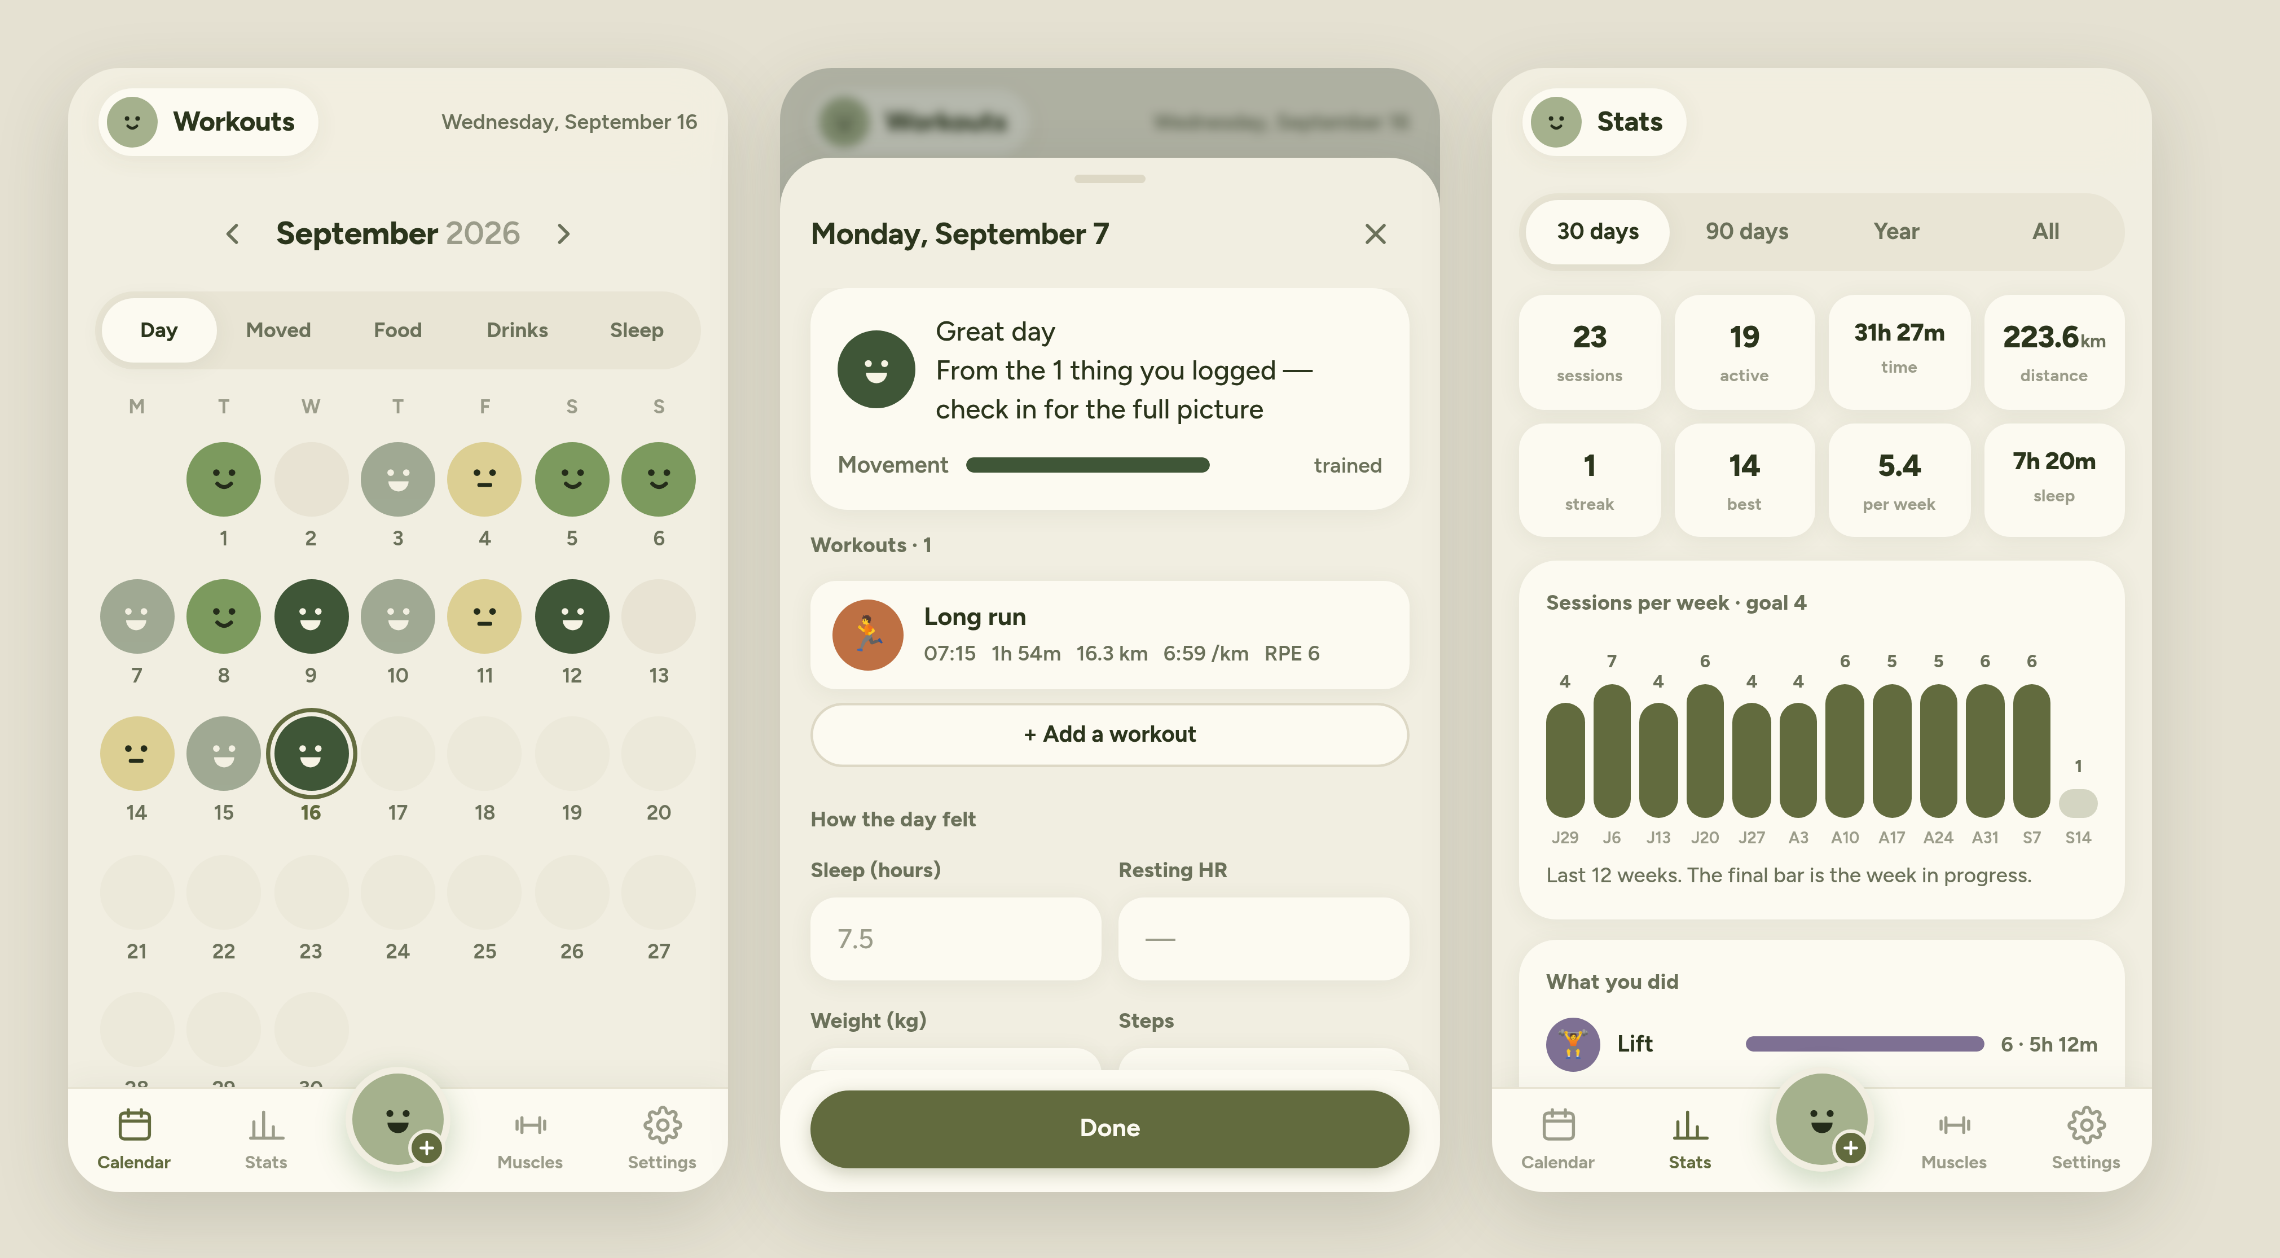
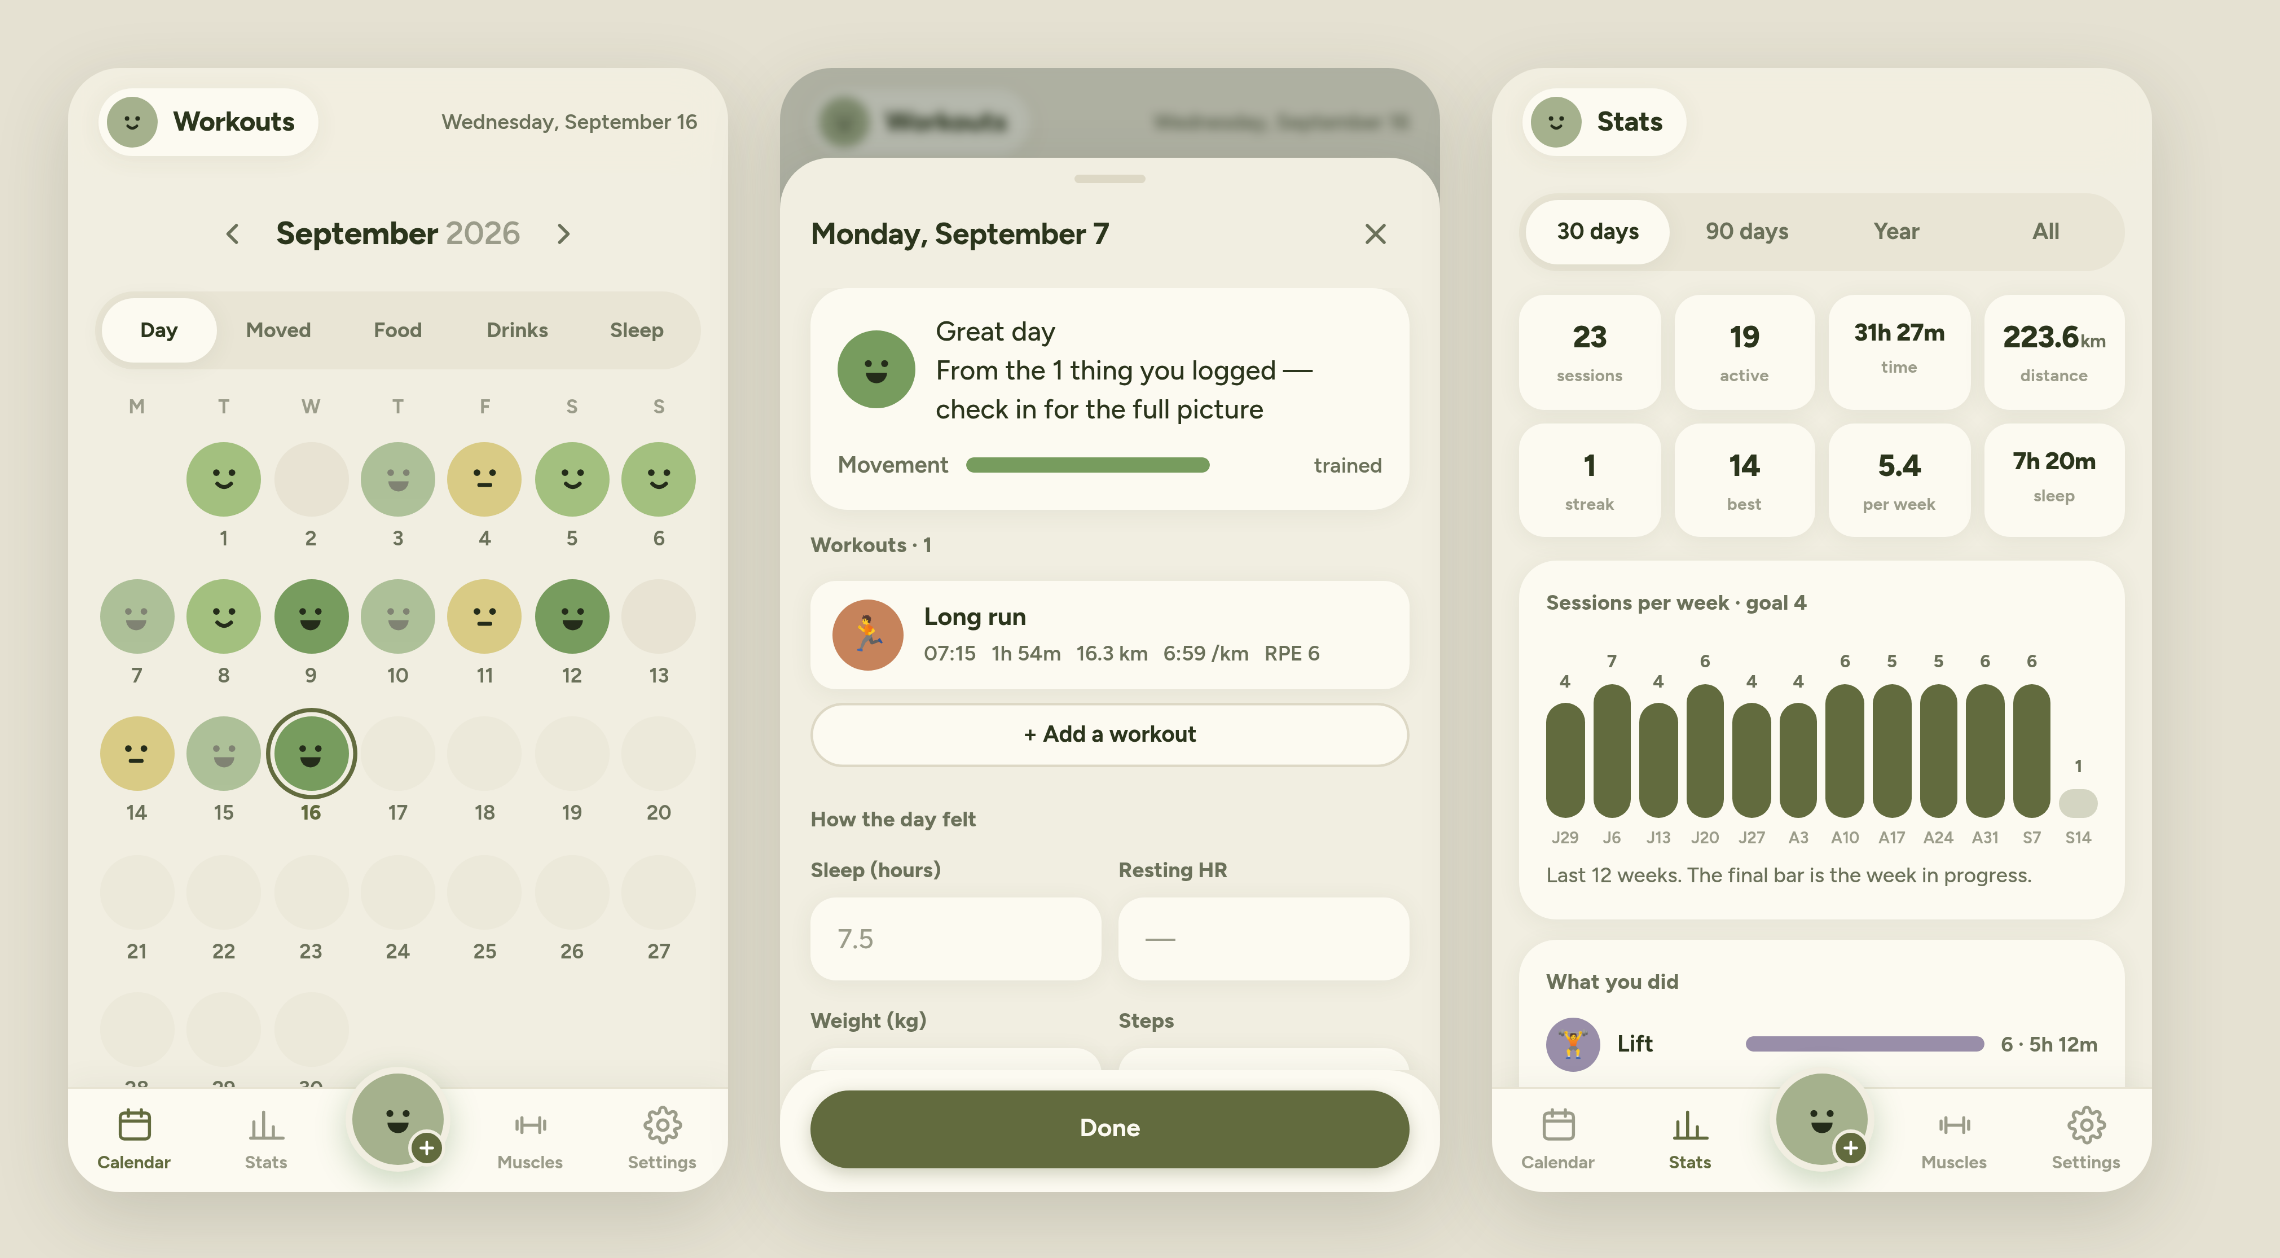
Lighten the palette so faces are always dark
The cream faces were a symptom: several fills were too dark to take dark ink,
so the contrast helper inverted them. Lifting the colours removes the cause
rather than the symptom.

Every fill in the app — score bands, activity types, muscle groups, food,
drinks and sleep — now clears 4.6:1 against the dark ink, so all 48 render a
black face. Audited rather than eyeballed.

Lifting the ramp mechanically collapsed its first two steps into
indistinguishable greens, so the five-step ramp is hand-spread instead: green,
sage, wheat, tan, terracotta, each step clearly apart while all staying light
enough. The same ramp now backs the food, drink and sleep scales too, so those
read in the same language.

Since nothing is dark any more, colours work on both grounds unaided and the
dark-theme swap introduced last commit is gone. inkFor stays as the guardrail
for anything added later.

Faded partial days get a little more presence, the palette being lighter.

Claude-Session: https://claude.ai/code/session_01YHC9zE35dyf9Km5sP7SgMx

diff --git a/js/types.js b/js/types.js
@@ -1,16 +1,16 @@
 // Workout taxonomy. `key` is what gets persisted, so don't rename existing keys
 // without a migration in store.js.
 export const TYPES = [
-  { key: 'run',      label: 'Run',       icon: '🏃', color: '#be7043', distance: true,  pace: 'pace' },
+  { key: 'run',      label: 'Run',       icon: '🏃', color: '#c6835b', distance: true,  pace: 'pace' },
   { key: 'ride',     label: 'Ride',      icon: '🚴', color: '#d4a368', distance: true,  pace: 'speed' },
-  { key: 'lift',     label: 'Lift',      icon: '🏋', color: '#7e7093', distance: false, pace: null },
-  { key: 'swim',     label: 'Swim',      icon: '🏊', color: '#5f8296', distance: true,  pace: 'swim' },
-  { key: 'climb',    label: 'Climb',     icon: '🧗', color: '#ae6b75', distance: false, pace: null },
-  { key: 'yoga',     label: 'Yoga',      icon: '🧘', color: '#6e9478', distance: false, pace: null },
+  { key: 'lift',     label: 'Lift',      icon: '🏋', color: '#998ea9', distance: false, pace: null },
+  { key: 'swim',     label: 'Swim',      icon: '🏊', color: '#7897a9', distance: true,  pace: 'swim' },
+  { key: 'climb',    label: 'Climb',     icon: '🧗', color: '#bb848c', distance: false, pace: null },
+  { key: 'yoga',     label: 'Yoga',      icon: '🧘', color: '#789b81', distance: false, pace: null },
   { key: 'walk',     label: 'Walk',      icon: '🚶', color: '#9b9c8a', distance: true,  pace: 'pace' },
-  { key: 'hike',     label: 'Hike',      icon: '🥾', color: '#7d8f4e', distance: true,  pace: 'pace' },
-  { key: 'ski',      label: 'Ski',       icon: '🎿', color: '#7f91a9', distance: true,  pace: 'speed' },
-  { key: 'row',      label: 'Row',       icon: '🚣', color: '#5f9089', distance: true,  pace: 'speed' },
+  { key: 'hike',     label: 'Hike',      icon: '🥾', color: '#879b54', distance: true,  pace: 'pace' },
+  { key: 'ski',      label: 'Ski',       icon: '🎿', color: '#8394ac', distance: true,  pace: 'speed' },
+  { key: 'row',      label: 'Row',       icon: '🚣', color: '#699c95', distance: true,  pace: 'speed' },
   { key: 'sport',    label: 'Sport',     icon: '⚽', color: '#c0a455', distance: false, pace: null },
   { key: 'mobility', label: 'Mobility',  icon: '🤸', color: '#a3b076', distance: false, pace: null },
   { key: 'rest',     label: 'Rest day',  icon: '😴', color: '#a8a695', distance: false, pace: null },

diff --git a/js/metrics.js b/js/metrics.js
@@ -9,11 +9,11 @@ import { BANDS } from './score.js';
  */
 
 export const DIET = [
-  { value: 1, icon: '🍩', label: 'Indulgent', color: '#a85c2f' },
-  { value: 2, icon: '🍟', label: 'Heavy',     color: '#d19a5c' },
-  { value: 3, icon: '🥪', label: 'Normal',    color: '#dccf93' },
-  { value: 4, icon: '🥗', label: 'Good',      color: '#7c9a5e' },
-  { value: 5, icon: '🥦', label: 'Clean',     color: '#3f5637' },
+  { value: 1, icon: '🍩', label: 'Indulgent', color: '#cf8360' },
+  { value: 2, icon: '🍟', label: 'Heavy',     color: '#dfa974' },
+  { value: 3, icon: '🥪', label: 'Normal',    color: '#d9cb85' },
+  { value: 4, icon: '🥗', label: 'Good',      color: '#a3c07f' },
+  { value: 5, icon: '🥦', label: 'Clean',     color: '#779c5e' },
 ];
 
 export function dietInfo(value) {
@@ -22,7 +22,7 @@ export function dietInfo(value) {
 
 /** Standard drinks. 6 is stored for "5+", which the UI labels as such. */
 export const DRINK_STEPS = [0, 1, 2, 3, 4, 5];
-export const DRINK_COLORS = ['#3f5637', '#6c8b52', '#9daf6d', '#dccf93', '#d19a5c', '#a85c2f'];
+export const DRINK_COLORS = ['#779c5e', '#8fb06a', '#bccb87', '#d9cb85', '#dfa974', '#cf8360'];
 
 export function drinksColor(n) {
   if (n == null) return null;
@@ -35,8 +35,8 @@ export function drinksLabel(n) {
 }
 
 const SLEEP_BANDS = [
-  [5, '#a85c2f'], [6, '#d19a5c'], [7, '#dccf93'],
-  [8, '#7c9a5e'], [9, '#3f5637'], [Infinity, '#5f8296'],
+  [5, '#cf8360'], [6, '#dfa974'], [7, '#d9cb85'],
+  [8, '#a3c07f'], [9, '#779c5e'], [Infinity, '#7897a9'],
 ];
 
 export function sleepColor(hours) {
@@ -76,9 +76,9 @@ export function lensLegend(key) {
     case 'food':   return DIET.map((d) => ({ color: d.color, label: `${d.icon} ${d.label}` }));
     case 'drinks': return DRINK_COLORS.map((color, i) => ({ color, label: i >= 5 ? '5+' : String(i) }));
     case 'sleep':  return [
-      { color: '#a85c2f', label: 'under 5h' }, { color: '#dccf93', label: '6–7h' },
-      { color: '#7c9a5e', label: '7–8h' }, { color: '#3f5637', label: '8–9h' },
-      { color: '#5f8296', label: '9h+' },
+      { color: '#cf8360', label: 'under 5h' }, { color: '#d9cb85', label: '6–7h' },
+      { color: '#a3c07f', label: '7–8h' }, { color: '#779c5e', label: '8–9h' },
+      { color: '#7897a9', label: '9h+' },
     ];
     default: return null;
   }

diff --git a/js/exercises.js b/js/exercises.js
@@ -8,17 +8,17 @@
  */
 
 export const MUSCLES = [
-  { key: 'chest',      label: 'Chest',      color: '#be7043' },
-  { key: 'back',       label: 'Back',       color: '#5f8296' },
+  { key: 'chest',      label: 'Chest',      color: '#c6835b' },
+  { key: 'back',       label: 'Back',       color: '#7897a9' },
   { key: 'shoulders',  label: 'Shoulders',  color: '#d4a368' },
-  { key: 'traps',      label: 'Traps',      color: '#7f91a9' },
-  { key: 'biceps',     label: 'Biceps',     color: '#7e7093' },
-  { key: 'triceps',    label: 'Triceps',    color: '#6e9478' },
+  { key: 'traps',      label: 'Traps',      color: '#8394ac' },
+  { key: 'biceps',     label: 'Biceps',     color: '#998ea9' },
+  { key: 'triceps',    label: 'Triceps',    color: '#789b81' },
   { key: 'forearms',   label: 'Forearms',   color: '#a3b076' },
   { key: 'core',       label: 'Core',       color: '#c0a455' },
-  { key: 'glutes',     label: 'Glutes',     color: '#ae6b75' },
-  { key: 'quads',      label: 'Quads',      color: '#5f9089' },
-  { key: 'hamstrings', label: 'Hamstrings', color: '#7d8f4e' },
+  { key: 'glutes',     label: 'Glutes',     color: '#bb848c' },
+  { key: 'quads',      label: 'Quads',      color: '#699c95' },
+  { key: 'hamstrings', label: 'Hamstrings', color: '#879b54' },
   { key: 'calves',     label: 'Calves',     color: '#b5ac93' },
 ];
 

diff --git a/js/util/color.js b/js/util/color.js
@@ -41,26 +41,10 @@ export function inkFor(hex) {
 }
 
 /**
- * Two colours in the ramp sit too close to the dark theme's ground to read:
- * the deep forest green at the good end and the rust at the bad end. Rather
- * than maintain a whole second palette, lift just those on dark — the hue
- * order, and so the meaning, is unchanged.
+ * The palette is deliberately light enough that dark ink reads on every fill,
+ * against both the cream and the dark ground — so nothing needs swapping per
+ * theme. inkFor stays as the guardrail for any colour added later.
  */
-const DARK_SWAP = {
-  '#3f5637': '#5f8043',   // deep forest green
-  '#6c8b52': '#7b9a5f',   // one drink
-  '#a85c2f': '#b86a3c',   // rust
-};
-
-export function isDarkTheme() {
-  const attr = document.documentElement.getAttribute('data-theme');
-  if (attr === 'dark') return true;
-  if (attr === 'light') return false;
-  return window.matchMedia?.('(prefers-color-scheme: dark)').matches ?? false;
-}
-
-/** A fill and the ink that reads on it, both resolved for the current theme. */
 export function resolveFill(hex) {
-  const fill = (isDarkTheme() && DARK_SWAP[String(hex).toLowerCase()]) || hex;
-  return { fill, ink: inkFor(fill) };
+  return { fill: hex, ink: inkFor(hex) };
 }

diff --git a/js/score.js b/js/score.js
@@ -20,11 +20,11 @@ export const WEIGHTS = { activity: 0.40, food: 0.35, drink: 0.25 };
 
 /** Score bands, best first. `min` is inclusive. */
 export const BANDS = [
-  { key: 'great', min: 0.82, label: 'Great day', face: 'happy',   color: '#3f5637' },
-  { key: 'good',  min: 0.64, label: 'Good day',  face: 'content', color: '#7c9a5e' },
-  { key: 'ok',    min: 0.45, label: 'Fine',      face: 'neutral', color: '#dccf93' },
-  { key: 'meh',   min: 0.27, label: 'Off day',   face: 'unsure',  color: '#d19a5c' },
-  { key: 'poor',  min: -1,   label: 'Rough day', face: 'sad',     color: '#a85c2f' },
+  { key: 'great', min: 0.82, label: 'Great day', face: 'happy',   color: '#779c5e' },
+  { key: 'good',  min: 0.64, label: 'Good day',  face: 'content', color: '#a3c07f' },
+  { key: 'ok',    min: 0.45, label: 'Fine',      face: 'neutral', color: '#d9cb85' },
+  { key: 'meh',   min: 0.27, label: 'Off day',   face: 'unsure',  color: '#dfa974' },
+  { key: 'poor',  min: -1,   label: 'Rough day', face: 'sad',     color: '#cf8360' },
 ];
 
 export function bandFor(score) {

diff --git a/css/app.css b/css/app.css
@@ -1199,4 +1199,4 @@ select {
 .score-card .bd .n { font-weight: 600; color: var(--text-2); text-align: right; }
 
 /* A day scored from only one of the three components. */
-.day.is-partial .bubble { opacity: .45; }
+.day.is-partial .bubble { opacity: .55; }

diff --git a/sw.js b/sw.js
@@ -2,7 +2,7 @@
  * Offline shell. Bump CACHE when you change any file below, otherwise an
  * installed copy on your phone will keep serving the old one.
  */
-const CACHE = 'workouts-v8';
+const CACHE = 'workouts-v9';
 
 const SHELL = [
   './',

diff --git a/README.md b/README.md
@@ -8,8 +8,8 @@ data lives on your device.
 
 ## What it does
 
-**Calendar** — every day is a face, on a spectrum from deep forest green
-through sage, wheat and tan to rust. The score behind it is a weighted blend of three things you control:
+**Calendar** — every day is a face, on a spectrum from green through sage,
+wheat and tan to terracotta. The score behind it is a weighted blend of three things you control:
 whether you moved (40%), how you ate (35%), and how little you drank (25%).
 
 Two pieces of fairness sit on top, because a flat average would lie:
@@ -255,11 +255,12 @@ Two things to remember:
 - Colours all come from the tokens at the top of `css/app.css`, defined once
   for light and again for dark. The palette is olive and cream throughout —
   nothing in it is pure white or pure black.
-- Fills are chosen in JS, not CSS, so `js/util/color.js` resolves them:
-  `inkFor` picks cream or deep-olive lettering by comparing real contrast
-  ratios, and `resolveFill` lifts the two colours that sit too close to the
-  dark theme's ground. Add a colour that fails on dark and it goes in that
-  file's `DARK_SWAP`, not in a second palette.
+- Every palette colour is kept light enough that the same dark ink reads on
+  it, against both the cream and the dark ground — faces are never inverted.
+  `js/util/color.js` holds `inkFor`, which picks lettering by comparing real
+  contrast ratios; it's the guardrail if you add a colour later. Adding one
+  darker than about 4.5:1 against `#242c1a` will flip its face to cream, so
+  lighten it instead.
 - The day score lives entirely in `js/score.js` — `WEIGHTS` sets the balance,
   `BANDS` the faces and cutoffs, the drink curves the weekend allowance, and
   `LOOKBACK` how fast rest credit decays. Nothing else needs touching to
